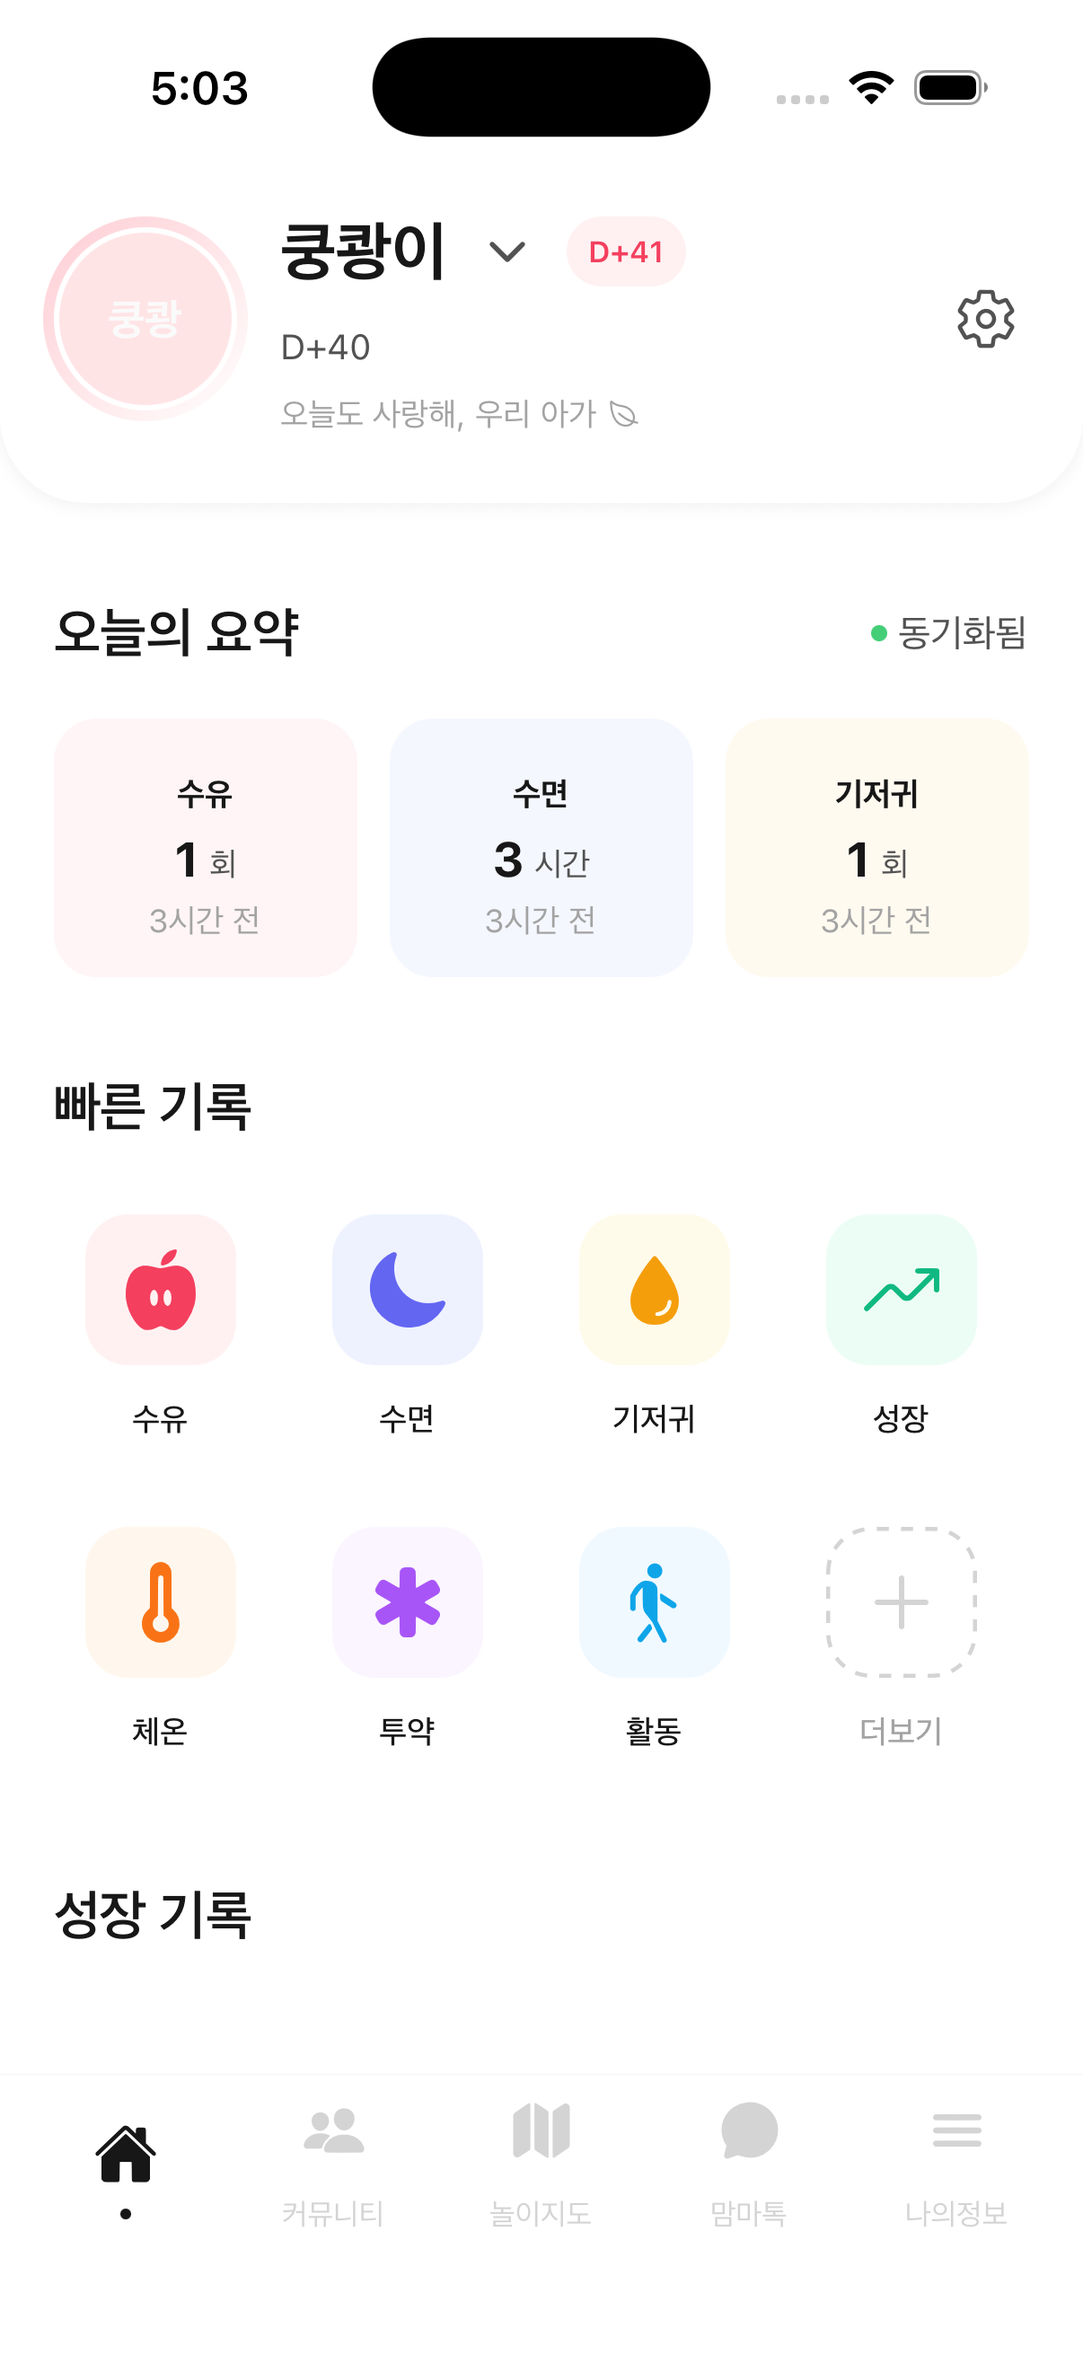
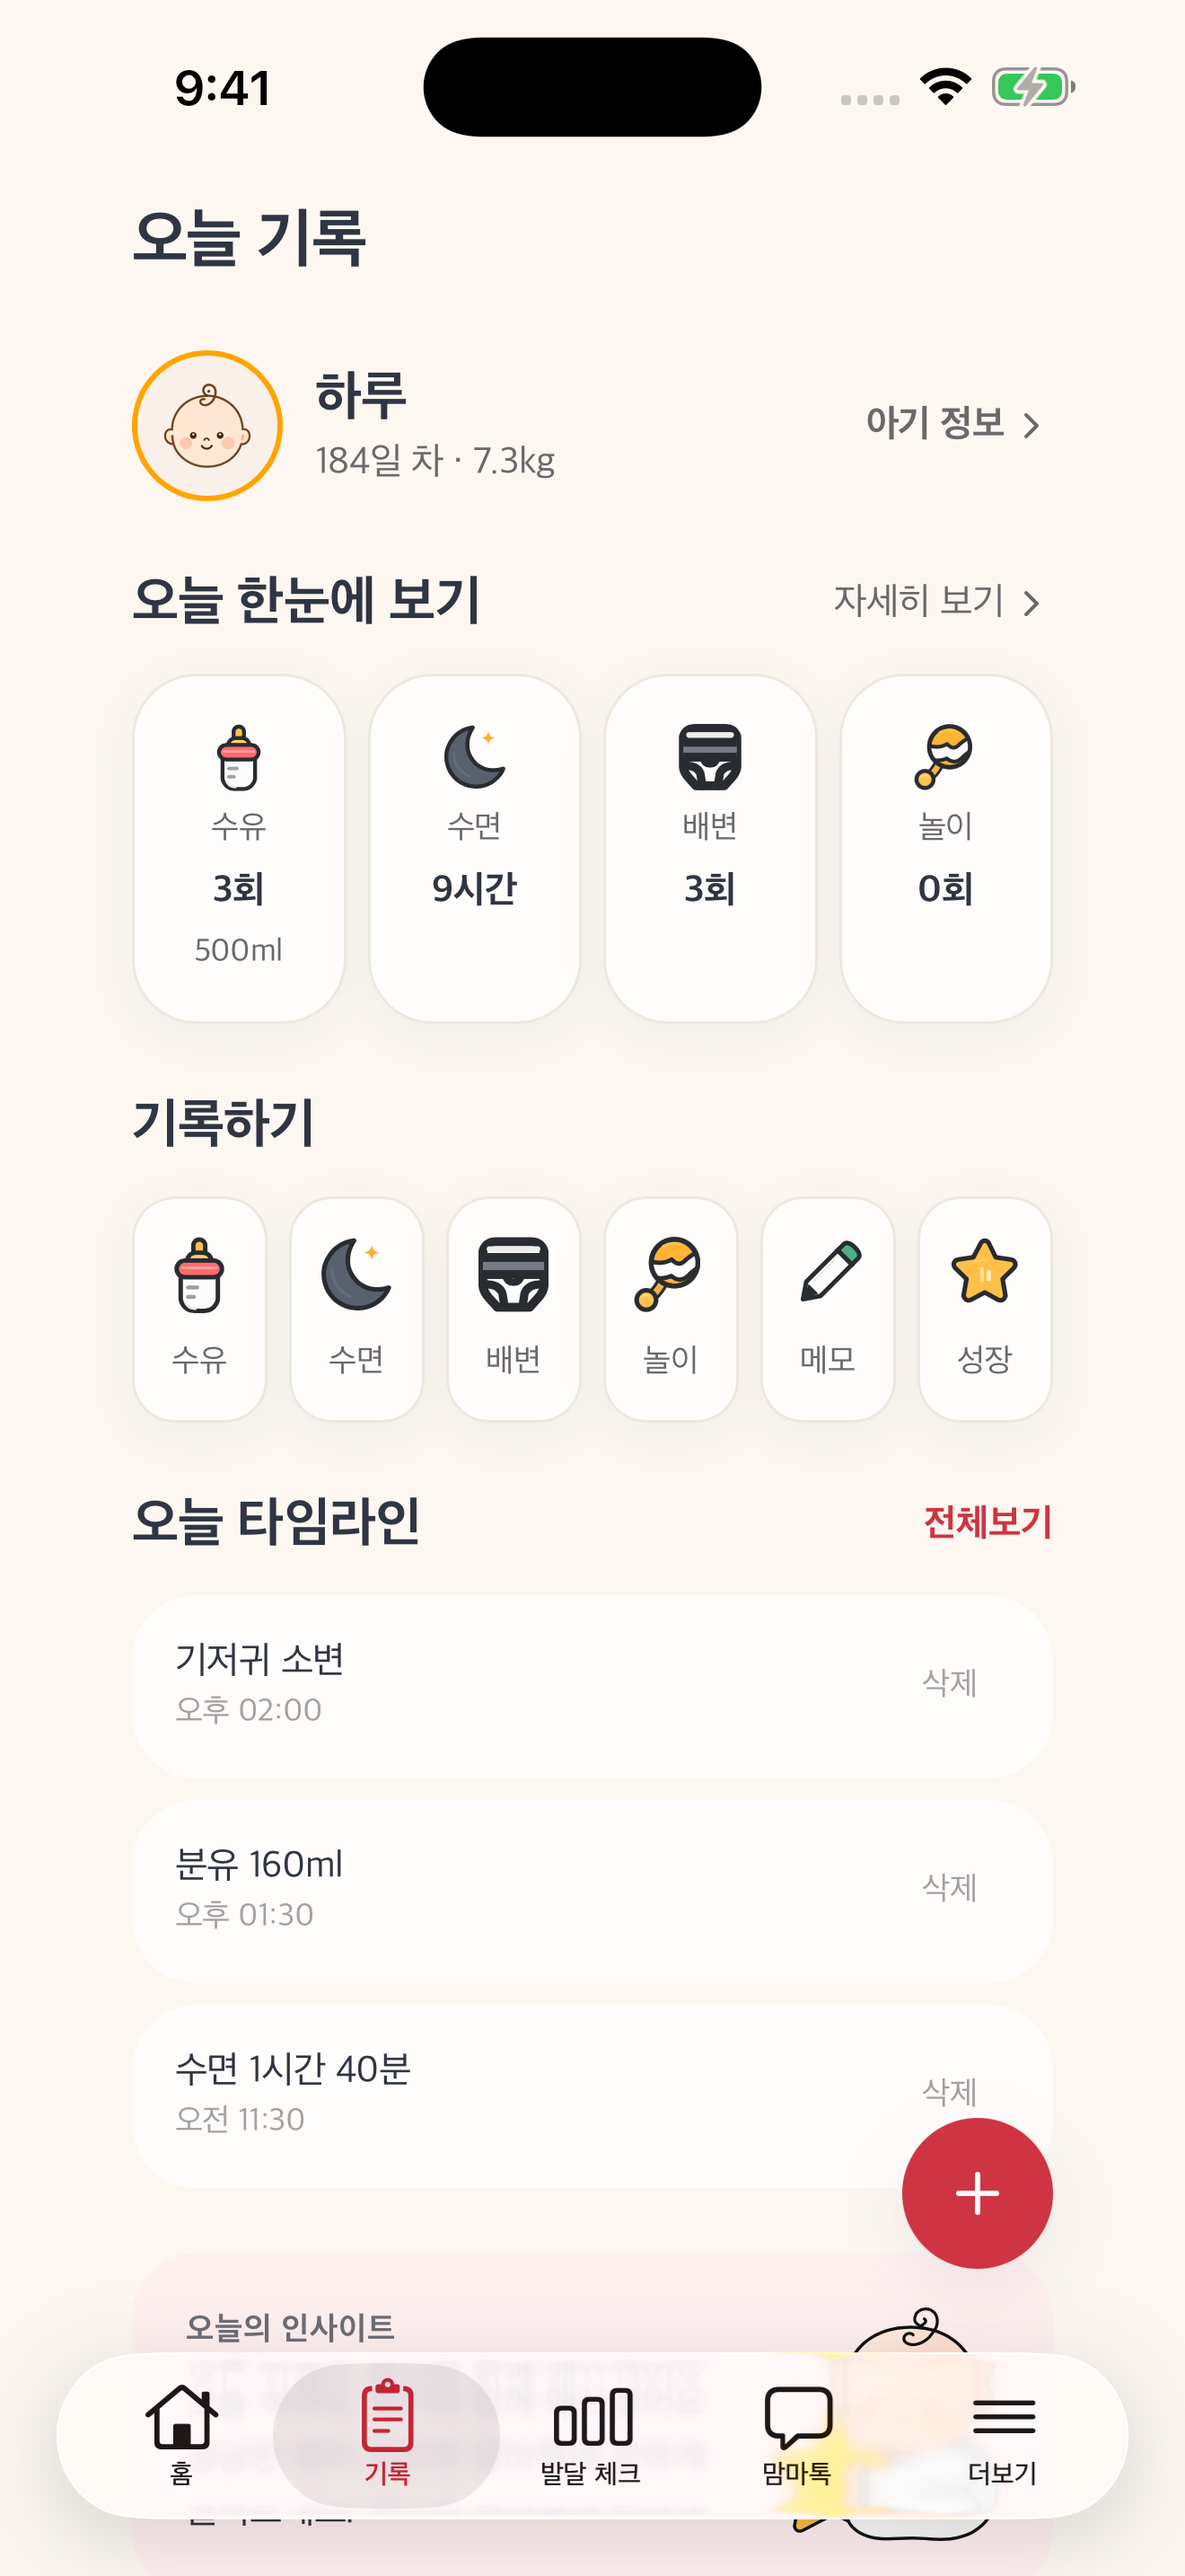
feat: Refresh app preview screenshots to the current UI
The screenshot carousel still showed the old 커뮤니티/놀이지도 bottom
nav, which no longer exists in the app. Swapped in the plain (no
marketing frame) captures from the 2026-09 store screenshot refresh:
the 기록 dashboard, a 맘마톡 chat, and the 아기 정보 관리 screen, and
updated the alt text to match.

diff --git a/src/components/ScreenshotGallery.tsx b/src/components/ScreenshotGallery.tsx
@@ -6,9 +6,9 @@ import { motion } from "framer-motion";
 import { ChevronLeft, ChevronRight } from "lucide-react";
 
 const screens = [
-  { id: "home", label: "홈", image: "/preview/home.png", alt: "맘마 앱 홈 화면 - 수유, 수면, 기저귀 기록 대시보드" },
+  { id: "home", label: "홈", image: "/preview/home.png", alt: "맘마 앱 오늘 기록 화면 - 수유, 수면, 기저귀 기록 대시보드" },
   { id: "talk", label: "맘마톡", image: "/preview/mamma-talk.png", alt: "맘마 앱 맘마톡 화면 - 아이 기록을 바탕으로 답하는 AI 상담" },
-  { id: "profile", label: "나의정보", image: "/preview/my-info.png", alt: "맘마 앱 나의정보 화면 - 아이 성장 기록 및 프로필 관리" },
+  { id: "profile", label: "나의정보", image: "/preview/my-info.png", alt: "맘마 앱 아기 정보 관리 화면 - 여러 아이 프로필 등록 및 전환" },
 ] as const;
 
 const CARD_W = 260;
